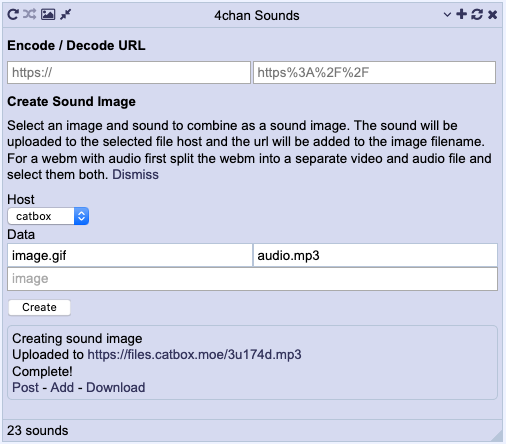
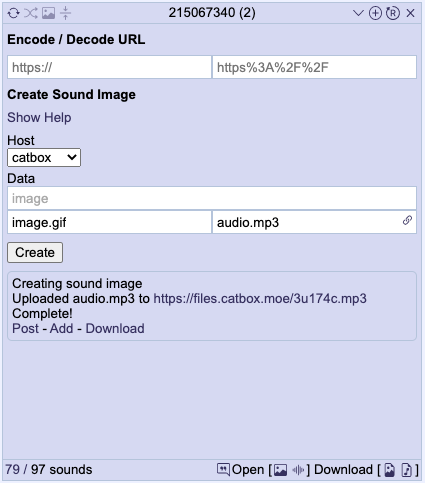
fixed playlist as a built in theme

diff --git a/src/components/theme/themes.js b/src/components/theme/themes.js
@@ -1,0 +1,8 @@
+module.exports = {
+	'Fixed Playlist': {
+		chanXControls: 'always',
+		headerTemplate: '<div class="playlist-resizer fcsp-expander" data-direction="w" data-bypass-save="true" data-bypass-position="true" data-allow-offscreen="true"></div>\nrepeat-button shuffle-button hover-images-button playlist-button\nsound-title-marquee\nview-menu-button add-button reload-button close-button',
+		rowTemplate: 'sound-title\np:{<img class="fcsp-row-image" src="sound-imageOrThumb">}\n<img class="fcsp-row-thumb" src="sound-thumb">',
+		customCSS: '/* Fix the player to the right at full height (minus the 4chan X header) */\n#fcsp-container[data-view-style="playlist"] {\n\t/* Fixed width *\\/\n\twidth: 25rem !important;/**/\n\theight: auto !important;\n\ttop: 0px !important;\n\tright: 0px !important;\n\tbottom: 24px !important;\n\tleft: auto !important;\n\theight: auto !important;\n\tmax-height: calc(100% - 24px);\n\tbackground: none !important;\n\tborder: none !important;\n}\n\n/* Hide things when the playlist is open */\n/* Hide the image with the playlist open, unless it\'s a webm.\n * To show gifs as well change playing-video to playing-animated. */\n#fcsp-container[data-view-style="playlist"]:not(.playing-video) .fcsp-image-link,/**/ \n#fcsp-container[data-view-style="playlist"] .fcsp-controls,\n#fcsp-container[data-view-style="playlist"] .fcsp-hover-image,\n#fcsp-container[data-view-style="playlist"] .fcsp-footer,\n#fcsp-container[data-view-style="fullscreen"] .fcsp-row-thumb,\n#fcsp-container[data-view-style="fullscreen"] .fcsp-row-image {\n\tdisplay: none !important;\n}\n/* Header is shown with adjustments to handle the changed container style */\n/* Opacity and absolute position are used to auto hide the header */\n#fcsp-container[data-view-style="playlist"] .fcsp-header {\n\tposition: absolute !important;\n\topacity: 0;\n\tz-index: 9;\n\tcursor: inherit;\n\tbackground: $config[colors.background];\n\tborder-width: 0 1px 1px 0;\n\ttransition: all .3s ease;\n}\n#fcsp-container[data-view-style="playlist"] .fcsp-header:hover {\n\topacity: 1;\n}\n\n/* Don\'t show a scrollbar for the playlist for aesthetic reasons */\n#fcsp-container[data-view-style="playlist"] .fcsp-list-container {\n\tscrollbar-width: none;\n}\n#fcsp-container[data-view-style="playlist"] .fcsp-list-container::-webkit-scrollbar {\n\tdisplay: none;\n}\n\n/* Chunky playlist items, with no background and a squared thumbnail image. */\n#fcsp-container[data-view-style="playlist"] .fcsp-list-item {\n\tbackground: none !important;\n\theight: auto !important;\n\ttext-align: right;\n\talign-items: center;\n\ttransition: all .5s ease;\n\tfont-size: 1rem;\n\tcolor: $config[colors.text];\n}\n#fcsp-container[data-view-style="playlist"] .fcsp-row-thumb, #fcsp-container[data-view-style="playlist"] .fcsp-row-image {\n\theight: 3rem;\n\twidth: 3rem;\n\tobject-fit: cover;\n\ttransition: all .5s ease;\n}\n/* Show a gradient background and increase the size of list items when you hover over them. */\n#fcsp-container[data-view-style="playlist"] .fcsp-list-item:hover {\n\tline-height: calc(1.5rem + 4px);\n\tfont-size: 1.5rem;\n\tfont-weight: bold;\n\tbackground-image: radial-gradient(circle at -50%, #0000 70%, $config[colors.odd_row]) !important;\n\tcolor: $config[colors.background];\n\t-webkit-text-stroke: 1px black;\n}\n#fcsp-container[data-view-style="playlist"] .fcsp-list-item:hover .fcsp-row-thumb {\n\theight: 4rem;\n\twidth: 4rem;\n}\n#fcsp-container[data-view-style="playlist"] .fcsp-row-image {\n\theight: 7rem;\n\twidth: 7rem;\n}\n/* Add a gradient background to the playing item, make the text bigger, and style the text. */\n#fcsp-container[data-view-style="playlist"] .fcsp-list-item.playing {\n\tbackground-image: radial-gradient(circle at -50%, #0000 70%, $config[colors.playing]) !important;\n\tpadding-left: 2px;\n\tfont-weight: bold;\n\tfont-size: 1.5rem;\n\tcolor: $config[colors.page_background];\n\t-webkit-text-stroke: 1px black;\n\ttext-shadow: 0 0 2px $config[colors.border];\n}\n/* Swap the thumb image with the full image for the playing item. */\n#fcsp-container[data-view-style="playlist"] .fcsp-list-item:not(.playing) .fcsp-row-image {\n\tdisplay: none;\n}\n#fcsp-container[data-view-style="playlist"] .fcsp-list-item.playing .fcsp-row-thumb {\n\tdisplay: none;\n}\n/* Same gradient background style for dragging items. */\n#fcsp-container[data-view-style="playlist"] .fcsp-dragging {\n\tbackground-image: radial-gradient(circle at -50%, #0000 70%, $config[colors.dragging]) !important\n}\n\n/* Add a resizer to the left of the header when the playlist is open. */\n.playlist-resizer {\n\topacity: 1 !important;\n\tmargin: 0 !important;\n\twidth: .25rem !important;\n\theight: auto !important;\n\tbackground-color: $config[colors.border] !important;\n\tposition: absolute;\n\tleft: -.25rem !important;\n\ttop: 0 !important;\n\tbottom: 0 !important;\n\tborder-radius: 100% 0 0 100%;\n\tcursor: ew-resize !important;\n\tdisplay: none;\n\ttransition: all .5s ease;\n}\n.playlist-resizer:hover {\n\twidth: .4rem !important;\n\tleft: -.4rem !important;\n}\n#fcsp-container[data-view-style="playlist"] .playlist-resizer {\n\tdisplay: block;\n}\n/* Hide the default resizers */\n#fcsp-container[data-view-style="playlist"] .fcsp-expander:not(.playlist-resizer) {\n\tdisplay: none;\n}\n'
+	}
+};

diff --git a/src/components/theme/index.js b/src/components/theme/index.js
@@ -178,15 +178,15 @@ module.exports = {
 			themes[name] = null;
 		} else {
 			delete themes[name];
-			Player.config.savedThemesOrder = Player.config.savedThemesOrder.filter(_name => _name !== name);
 		}
+		Player.config.savedThemesOrder = Player.config.savedThemesOrder.filter(_name => _name !== name);
 		// Remove the row
 		row.parentNode.removeChild(row);
 		Player.settings.set('savedThemes', themes, { bypassValidation: true, bypassRender: true });
 		// Remove hotkey binding
 		const bindingIndex = Player.config.hotkey_bindings.switchTheme.find(def => def.themeName === name);
 		if (bindingIndex) {
-			Player.set('switchTheme', Player.config.hotkey_bindings.switchTheme.splice(bindingIndex, 1), { bypassValidation: true });
+			Player.set('hotkey_bindings.switchTheme', Player.config.hotkey_bindings.switchTheme.splice(bindingIndex, 1), { bypassValidation: true });
 		}
 	},
 

diff --git a/src/config/theme.js b/src/config/theme.js
@@ -9,7 +9,7 @@ module.exports = [
 		displayGroup: 'Theme',
 		displayMethod: 'theme.savedThemesTemplate',
 		mix: true,
-		default:  { }
+		default:  require('../components/theme/themes.js')
 	},
 	{
 		property: 'savedThemesOrder',
@@ -41,7 +41,7 @@ module.exports = [
 		property: 'footerTemplate',
 		title: 'Footer',
 		actions: [ { title: 'Reset', handler: 'settings.reset' } ],
-		default: 'playing-button:"sound-index /" sound-count sounds\n'
+		default: 'playing-button:"sound-index /&nbsp;" sound-count sounds\n'
 			+ '<div class="fcsp-col"></div>\n'
 			+ 'p:{\n'
 			+ '		post-link\n'

diff --git a/src/components/playlist/index.js b/src/components/playlist/index.js
@@ -54,7 +54,7 @@ module.exports = {
 			Player.playlist.showImage(sound);
 			Player.$all(`.${ns}-list-item.playing, .${ns}-list-item[data-id="${Player.playing.id}"]`).forEach(el => {
 				const newItem = Player.playlist.listTemplate({ sounds: [ Player.sounds.find(s => s.id === el.dataset.id) ] });
-				_.elementBefore(newItem, el)
+				_.elementBefore(newItem, el);
 				el.parentNode.removeChild(el);
 			});
 			Player.config.viewStyle !== 'fullscreen' && Player.playlist.scrollToPlaying('nearest');

diff --git a/src/migrations.js b/src/migrations.js
@@ -14,7 +14,8 @@ module.exports = [
 	{
 		version: '3.4.0',
 		name: 'sound-name-title-swap',
-		async run () {
+		async run() {
+			const config = Player.config;
 			const changes = {};
 			const templates = [ 'headerTemplate', 'rowTemplate', 'footerTemplate', 'chanXTemplate', 'customCSS' ];
 			templates.forEach(prop => {

diff --git a/src/config/index.js b/src/config/index.js
@@ -3,7 +3,7 @@ module.exports = [
 	...require('./display'),
 	...require('./filter'),
 	...require('./keybinds'),
-	...require('./templates'),
+	...require('./theme'),
 	...require('./hosts'),
 
 	{

diff --git a/src/scss/_header.scss b/src/scss/_header.scss
@@ -4,10 +4,6 @@
 	max-width: 100%;
 	line-height: 1rem;
 
-	&.#{$ns}-col-auto {
-		display: block;
-	}
-
 	&:hover .#{$ns}-hover-display {
 		display: flex;
 	}

diff --git a/README.md b/README.md
@@ -5,7 +5,11 @@ A floating player for 4chan sounds threads.
 ## Install
 [Stable](https://raw.githubusercontent.com/rcc11/4chan-sounds-player/master/dist/4chan-sounds-player.user.js), [Beta](https://raw.githubusercontent.com/rcc11/4chan-sounds-player/master/dist/4chan-sounds-player-beta.user.js).
 
-There's also an [FFmpeg version](#ffmpeg-version).
+## Contents
+- [Sound Player UI](#sound-player-ui)
+- [Creating Sound Images](#creating-sound-images)
+- [Searching for Threads](#sound-threads-search)
+- [Themes](#themes)
 
 ## Sound Player UI
 
@@ -14,17 +18,24 @@ A link to open the player is shown at the top and bottom of the page, next to se
 ![Native Button](./images/button-native.png)
 
 For 4chan X the link is in the header.
+
 ![4chan X Button](./images/button-4chan-x.png)
 
 #### Display Modes
 
-The playlist view lists all the sounds in the thread. You can drag items to adjust the play order.
+The playlist view lists all the sounds in the thread. You can drag items to adjust the play order. There are two [themes](#themes) that come with the player for modifying the playlist display.
 
-![Playlist UI](./images/playlist.png)
+The default playlist.
+
+![Default Playlist UI](./images/playlist-default.png)
+
+The fixed playlist fixes the playlist to the right of the page at full height. With this theme every but the playlist is hidden, with the header showing if you hover over the top. You can expand the playlist by dragging the left side of the header.
+
+![Fixed Playlist UI](./images/playlist-fixed.png)
 
 The playlist can be toggled by a button in the heading. With it hidden the image/video will fill the player.
 
-![Image UI](./images/green-tea.png)
+![Image UI](./images/image-only-view.png)
 
 You can opt to display a thumbnail in the bottom right of the page while the player is hidden. The example here shows a rather large image but the size is customisable. If you have 4chan X you can also have the sound controls be displayed in header.
 
@@ -32,23 +43,19 @@ You can opt to display a thumbnail in the bottom right of the page while the pla
 
 #### Position/Resizing
 
-The player can be moved by dragging the header and resized by dragging bottom right corner of the footer.
+The player can be moved by dragging the header and resized by dragging each corner.
 
 #### Adding Local Files
 
-To add local files (images with `[sound=url]` filenames) you can either click the + button in the header and select the files you want or drag and drop files onto the player.
+To add local files (images with `[sound=<url>]` filenames) you can either click the + button in the header and select the files you want or drag and drop files onto the player.
 
 If you want to test out a sound before you post it this is a good method of doing so.
 
-## Tools
+## Creating Sound Images
 
-#### Encode/Decode URLS
+A sound is set on an image by adding `[sound=<url>]` to the filename, where url is a link to the audio file. You can add as many sounds in this format as the filename length permits. The url needs to encoded so it's valid as part of a filename.
 
-Just two inputs that let you paste encoded and decoded URLs.
-
-#### Create Sound Image
-
-This form allows you to select/drop an image and sound. The sound will be uploaded to the selected host and the image will be renamed to include a `[sound=url]` link to it. You can also select multiple sounds to add to a single image, but keep in mind the filename length limit when doing so. Once complete you can choose to post the created image, download it, or add it to the player. Refer to [Hosts](#hosts) for the configuration.
+To create images using the sound player go to the tools view. The form here allows you to select/drop an image and sound. The sound will be uploaded to the selected host and the image will be renamed to include a a link to it. You can also select multiple sounds to add to a single image, but keep in mind the filename length limit when doing so. Once complete you can choose to post the created image, download it, or add it to the player. There are a few default hosts, but you can set up whatever hosts you want under Settings>Hosts. If you have a user token for the default hosts you can also set that there. Be aware that the default host filters only include default upload hosts.
 
 ![Tools View](./images/tools.png)
 
@@ -58,55 +65,94 @@ The threads views allows you to search for threads that include a sound in the O
 
 The threads can be displayed in a table or a pseudo-board.
 
-![Threads Search Board View](./images/threads-board.png)
-![Threads Search Table View](./images/threads-table.png)
+![Threads Search View](./images/search-threads.png)
 
-## Settings
+## Themes
 
-#### Display
+There are two theme provided by default. The floating player, and a fixed playlist. By using templates and custom CSS you can create your own saved themes, and set keybinds to switch between.
 
-- __Autoshow__ - Open the player automatically for threads that contain sounds.
-- __Pause on hide__ - Pauses the player when it's hidden.
-- __Colors__ - By default the player will attempt to match the board theme, but you can set your own colors. Selecting "Match Theme" will revert to matching the board theme after making any modifications.
-- __Controls__
-	- _Prevent Wrapping_ - Progressively hide controls as the player shrinks to prevent them wrapping on to a new line.
-	- _Hide Order_ - The order in which controls hide.
-- __Threads__
-	- _Auto Scroll_ - Automatically scroll the thread to posts when they are played.
-	- _Limit Post Widths_ - Reduces the widths of posts that are next to the player so they're not hidden beneath it. A minimum width can be set.
-- __Minimised Display__
-	- _Thumbnail_ - Whether to display a thumbnail of the playing sound in the bottom right corner of the window when the player hidden. The thumbnail size can be set.
-	- _4chan X Header Controls_ - Whether to show playback controls in the 4chan X header. They be set to show always, only with the player hidden, or never.
+#### Creating Themes
 
-#### Keybinds
+Certain sections of the UI allow you to provide custom HTML templates. In doing so the replacements below will be made to the provided template.
 
-- __Keybinds__ - Keyboard shortcuts can be assigned to control the player and playback. They can be always enabled, enabled only when the player is open, or disabled.
+For the templates other than the row template, values that refer to a sound reference whichever is currently playing (or paused). So `p:{}` in the footer template will show the content if any sound is selected, whereas `p:{}` in the row template will show the content for only the row that is currently playing.
 
-#### Filter
 
-- __Include WebM__ - Add WebM files to the player, regardless of sound filenames. Intended more for /gif/ and /wsg/.
-- __Allowed Hosts__ - Which hosts the player will add sounds from.
-- __Filters__ - Sounds or images to ignore. On each line add the URL of the sound or the MD5 of the image you want to filter and they will no longer be added to the player. Lines starting with a `#` are ignored. The menu for playlist items has links to add the sound or image to the filters.
+__Conditional Display__
+- `p:{ <content> }` - Only displays the given content if the sound is currently selected.
+- `h:{ <content> }` - Only displays the given content if the cursor is hovering over the element (i.e. the footer or row). Note that unlike `p:{}` that fully omits the contents this will instead wrap it in a containing div. If that messes up your template you can set a class of `fcsp-hover-display` on elements to achieve the same effect instead.
 
-#### Templates
-- __Footer/Header/Row/4chan X Header Contents__ - Custom display templates. See [Content Templates](#content-templates) below for usage.
+For both `p:{}` and `h:{}` the content given will have the same replacements applied. So, for example, you can choose to only show the menu button when hovering over a row by adding `h:{ menubutton }` to the row template.
 
-#### Hosts
+__Sound Properties__
+- `sound-count` - The number of songs added to the player.
+- `sound-index` - The index of the sound (starting from 1).
+- `sound-title` - The name of the sound. If you want to scroll long sound names use `sound-title-marquee`.
+- `src` - The src for the sound file.
+- `id` - An identifier for the sound.
+- `title` - Same as sound-name but without being wrapped in any html
+- `post` - The post identifier for the sound.
+- `imageOrThumb` - Full size image URL for images, or thumbnail URL for webms.
+- `image` - Full image/webm URL.
+- `thumb` - Thumnail URL.
+- `filename` - The entire filename, including `[sound=...]`.
+- `imageMD5` - MD5 of the image.
 
-- __Hosts__ - The hosts used for uploading created sounds. Each host is configured using the following properties.
-    - __Name__ - A unique name used as the host identifier.
-	- __URL__ - The URL the file is updated to do.
-	- __Data__ - A JSON object representing the form data posted for the upload. The file is specified by setting `$file` as the value.
-	- __Headers__ - _(Optional)_ Request headers.
-	- __Response Path__ - _(Optional)_ A path to locate the URL for the uploaded sound in a JSON response.
-	- __Response Match__ - _(Optional)_ A regular expression where the first match group is used to identify the URL for the uploaded sound in the response text.
-	- __Sound URL__ - _(Optional)_ A URL that where `%s` is replaced the result of the result path or result match.
+__Config Properties__
+The format for any config property is `$config[property]`. You can reference any config value but the only useful ones are colors.
+They're the ones defined in Settings > Display.
+- `colors.text`
+- `colors.background`
+- `colors.border`
+- `colors.odd_row`
+- `colors.even_row`
+- `colors.playing`
+- `colors.dragging`
+- `colors.controls_background`
+- `colors.controls_inactive`
+- `colors.controls_active`
+- `colors.controls_empty_bar`
+- `colors.controls_loaded_bar`
+- `colors.page_background` - This one is the body background color, and is not configurable.
 
-Various hosts accept a token for user identification. These are typically identified in the default setup as a null value which you can replace with your token.
+__Links/Buttons__
 
-## Styling
+All the values here can be followed by `:""` to specify the text, otherwise they will default to icons with 4chan X or short text displays.
+- `playing-link` - Jumps to the sound in the playlist.
+- `post-link` - Jumps to the post for the sound.
+- `image-link` - Opens the sounds image in a new tab.
+- `sound-link` - Opens the sounds source in a new tab.
+- `dl-image-button` - Download the sounds image with the original filename, i.e including `[sound=...]`.
+- `dl-sound-button` - Download the sound audio itself.
+- `filter-image-button` - Add the image MD5 to the filters.
+- `filter-sound-button` - Add the sound URL to the filters.
+- `remove-button` - Remove the sound from the player. Removed sounds can be re-added using the reload button.
+- `menu-button` - Open the dropdown menu for the sound. You can right click the sound item to open it instead.
+- `repeat-button` - Toggles the repeat setting between all, one and none.
+- `shuffle-button` - Toggles shuffle.
+- `playlist-button` - Toggles between the playlist and image view.
+- `hover-images-button` - Toggles hover images in the playlist.
+- `add-button` - Open the file input to add local files.
+- `reload-button` - Reloads the sounds from the thread to add any missing files. Useful if you change the allowed hosts or filters but generally all sounds should already be added.
+- `view-menu-button` - Open the view menu dropdown to switch between views.
+- `settings-button` - Open/close the settings.
+- `threads-button` - Open/close the threads search view.
+- `tools-button` - Open/close the tools view.
+- `close-button` - Hide the player.
 
-See [the readme](./themes/README.md).
+__4chan X Header Controls__
+
+For the 4chan X Header Controls template there are extra replacements, in addition to the ones above.
+
+- `prev-button` - Play the previous sound.
+- `play-button` -  Play/pause the current sound.,
+- `next-button` -  Play the next sound,
+- `sound-current-time` -  Display the playback time,
+- `sound-duration` -  Display the track duration.
+
+__Custom CSS__
+
+The only replacements made to custom CSS are config values and sound properties.
 
 ## FFmpeg Version
 
